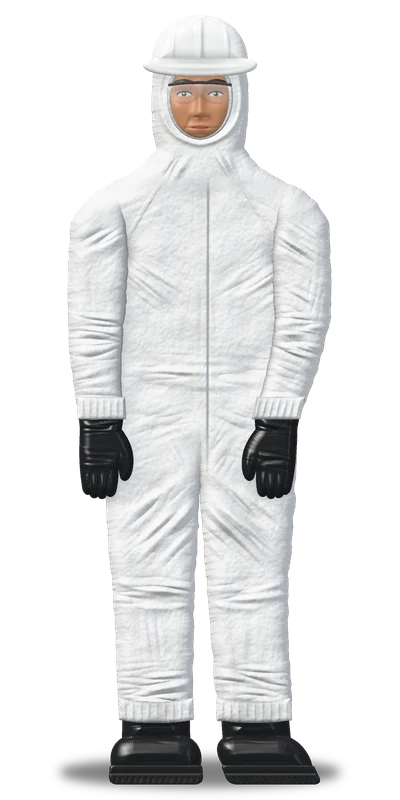
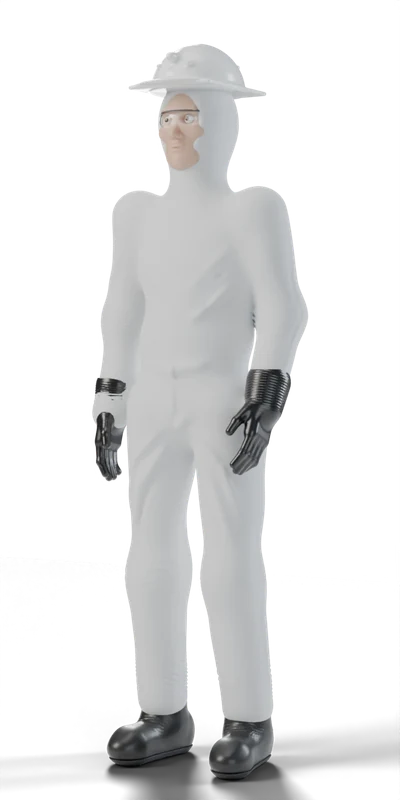
Trajes A–D como personagens 3D (Blender/Cycles): malha real, PBR, vidro, sombras, pose em 3/4
Claude-Session: https://claude.ai/code/session_01UdsL3bCh6iyzEWJU9jDkJQ

diff --git a/index.html b/index.html
@@ -1821,7 +1821,7 @@ function foot(){var names={e:{pt:'EPI e EPR',en:'PPE and RPE',es:'EPP y EPR'}[st
 /*EPI-JS*/
 /* ---------- EPI / EPR (fluxogramas da ABNT NBR 14064:2015) ---------- */
 /* ---- figuras: renderizações 2,5D (suitart/render.py, products.py) em fig/epi/ ---- */
-function epImg(n,w,h,alt){return '<img class="epfig" src="fig/epi/'+n+'.webp?v=3" width="'+w+'" height="'+h+'" alt="'+esc(alt)+'" decoding="async">';}
+function epImg(n,w,h,alt){return '<img class="epfig" src="fig/epi/'+n+'.webp?v=4" width="'+w+'" height="'+h+'" alt="'+esc(alt)+'" decoding="async">';}
 function epFig(k){return epImg(k,200,400,EPX().lv[k][0]);}
 function epGear(k){return epImg(k,200,240,EPX().lv[k][0]);}
 function epTypeFig(k){var n={scba:'S',full:'P'}[k]||k;return epImg(n,200,240,EPTX().it[k][0]);}
